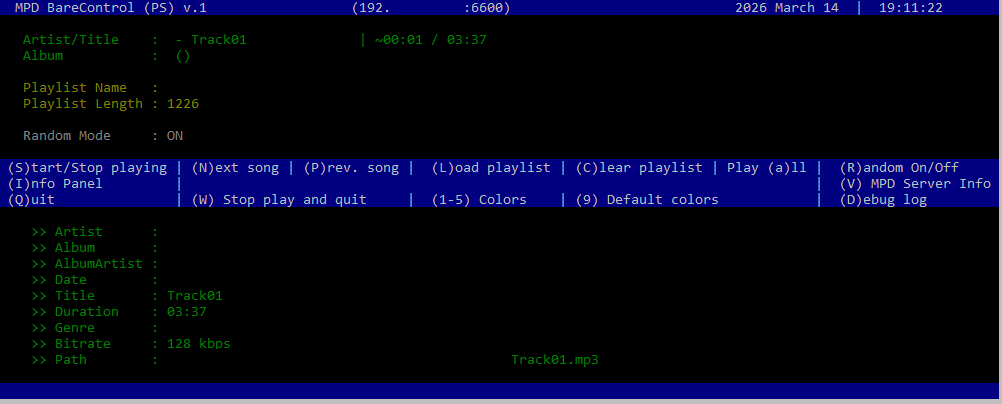
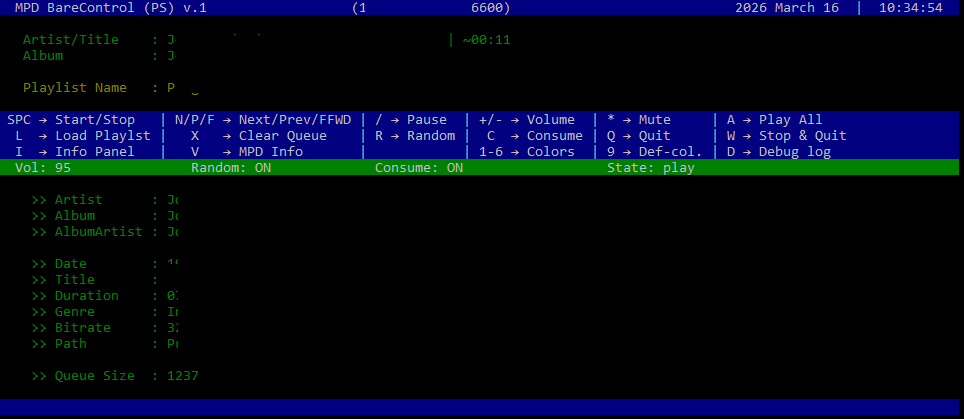
Update doc and screenshots

diff --git a/README.md b/README.md
@@ -3,7 +3,7 @@
 
 ### Overview
 
-* MPD Bare Control is a minimal Music Player Daemon (MPD) controller providing only the essential features.
+* MPD Bare Control is a minimal Music Player Daemon (MPD) controller providing only the essential features (playback and limited playlist support).
 * MPD Bare Control was written in PowerShell and utilizes a console-based user interface with keyboard function access.
 * MPD Bare Control is a toy-project (as of now).
 * Tested with Music Player Daemon 0.24.4 (0.24.4) running on Raspberry Pi with connections from Windows 10/11
@@ -34,7 +34,7 @@
 
 ### Known Bugs
 
- * During playback elapsed duration of the song is an estimate
+ * Elapsed time of the song is an estimate during playback
 
 
 ### Contact:
